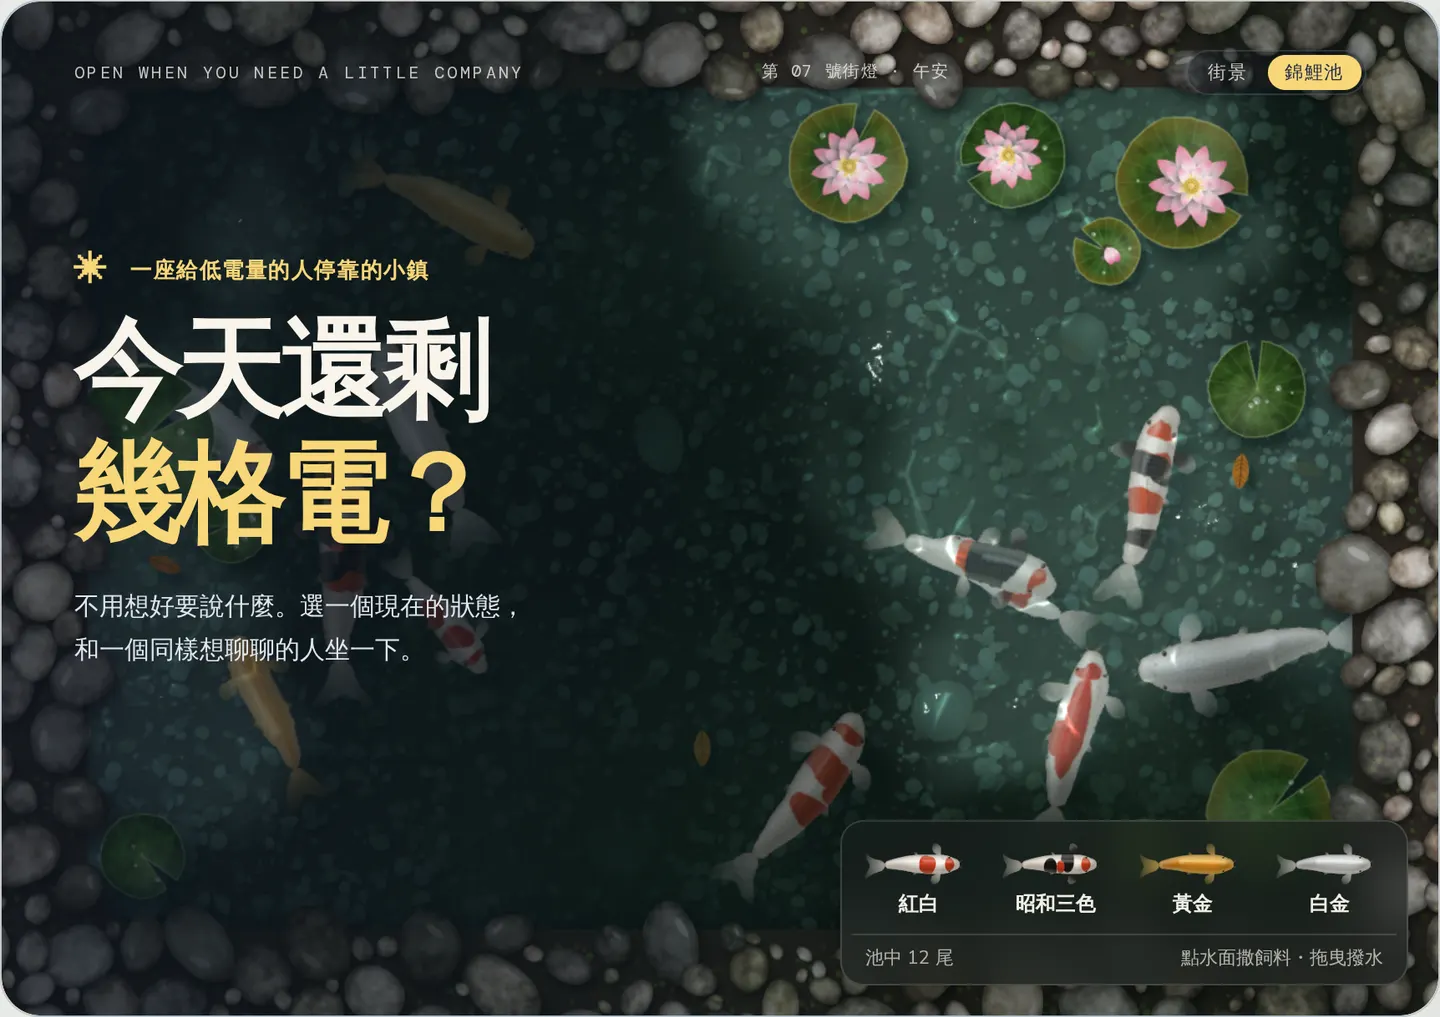
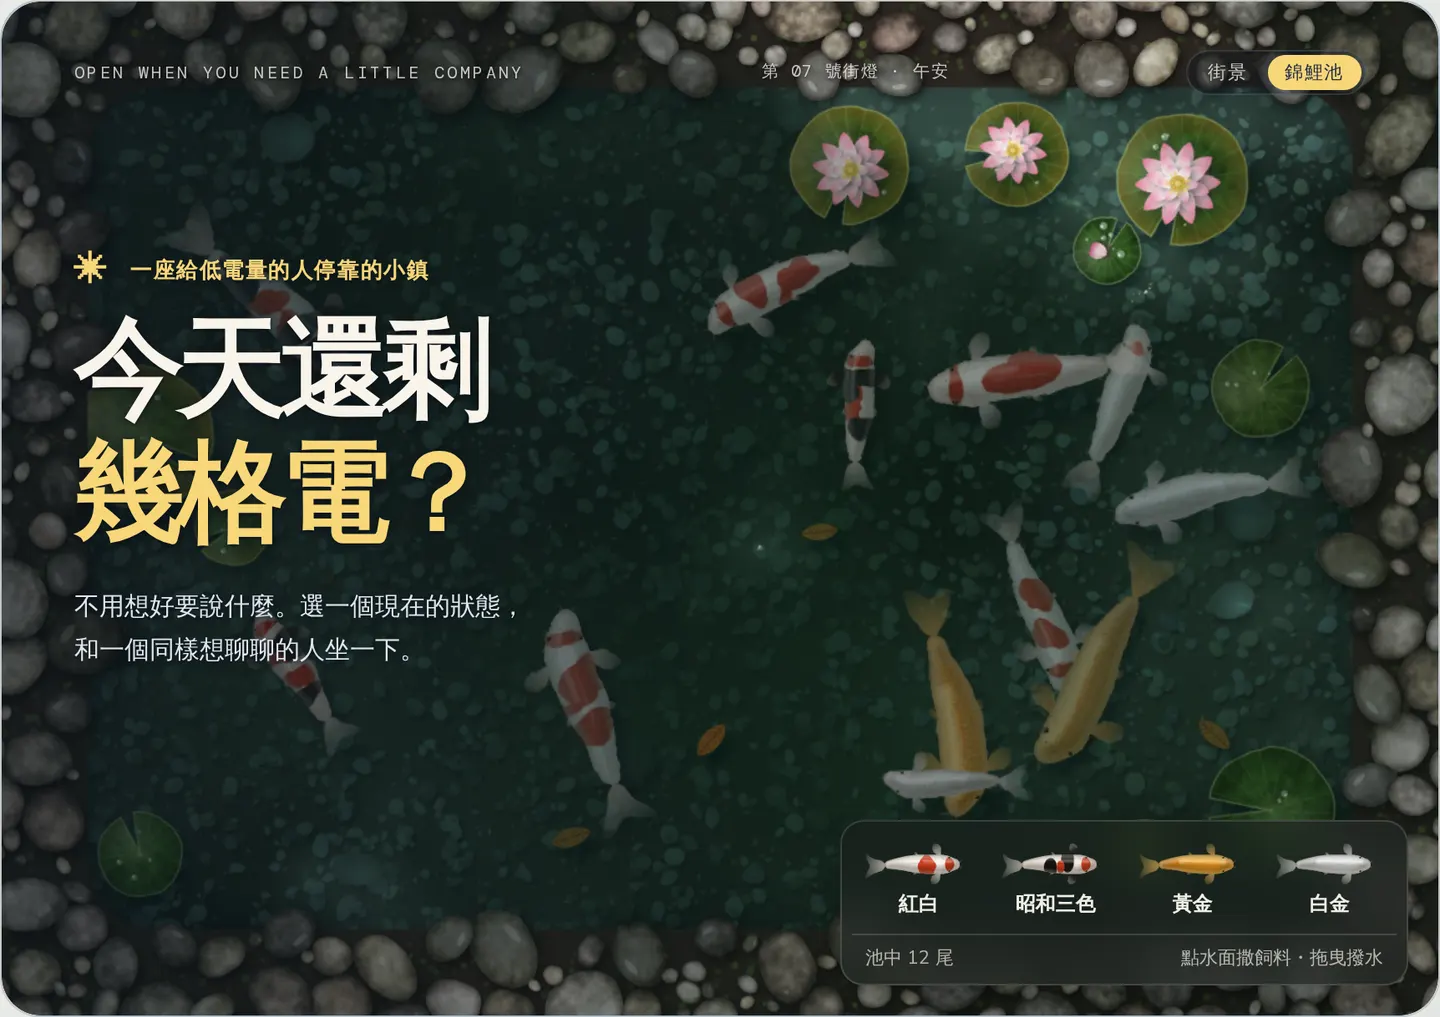
Koi pond: brighter water at every hour, readable headline via text shadow
The owner found the pond too dark (night especially). Measured on the stage,
the mean RGB was about half the prototype's at night and 80% by day.

- Night tint is a light moonlit cast instead of a dark blue multiply; dusk
  and dawn casts are lighter too.
- The left scrim is narrower and lighter; a soft text shadow keeps the hero
  copy and top line readable over the water.
- The engine's tree shade floor goes from the prototype's .58 to .7.
- The /unlock preview image is re-shot with the new look.

Claude-Session: https://claude.ai/code/session_01GTBDjwvqFkiCwE3BEZu2tP

diff --git a/frontend/components/lbt/lbt.css b/frontend/components/lbt/lbt.css
@@ -5305,8 +5305,8 @@ html[data-lbt-time] .lbt .waiting-card .sky-moon {
 
 /* ── Stage scene: koi pond (preview, components/lbt/KoiPond.tsx) ─────────
    The pond fills the stage under the hero copy; the street, sky and sky
-   topics step aside. Light text over a soft dark scrim on the left keeps
-   the headline readable whatever the water does; a tint follows the hour. */
+   topics step aside. A text shadow and a light scrim on the left keep the
+   headline readable whatever the water does; a light tint follows the hour. */
 .lbt .main-stage.is-pond .town-sky,
 .lbt .main-stage.is-pond .townscape,
 .lbt .main-stage.is-pond .sky-topics {
@@ -5355,16 +5355,24 @@ html[data-lbt-time] .lbt .waiting-card .sky-moon {
   inset: 0;
   pointer-events: none;
 }
+/* kept light so the water stays as bright as the owner's prototype; the
+   text shadow below does most of the work for the headline */
 .lbt .koi-scrim {
   right: auto;
-  width: min(560px, 64%);
-  background: linear-gradient(90deg, rgba(12, 18, 30, 0.66), rgba(12, 18, 30, 0.42) 55%, transparent);
+  width: min(520px, 58%);
+  background: linear-gradient(90deg, rgba(12, 18, 30, 0.42), rgba(12, 18, 30, 0.2) 60%, transparent);
 }
 .lbt .koi-tint { mix-blend-mode: multiply; }
+/* a cool moonlit cast at night, warm at dusk, lilac at dawn: colour, not darkness */
 html[data-lbt-time="night"] .lbt .koi-tint,
-html:not([data-lbt-time]) .lbt .koi-tint { background: rgba(28, 40, 86, 0.62); }
-html[data-lbt-time="dusk"] .lbt .koi-tint { background: rgba(255, 168, 120, 0.4); }
-html[data-lbt-time="dawn"] .lbt .koi-tint { background: rgba(196, 188, 236, 0.38); }
+html:not([data-lbt-time]) .lbt .koi-tint { background: rgba(120, 140, 200, 0.4); }
+html[data-lbt-time="dusk"] .lbt .koi-tint { background: rgba(255, 176, 128, 0.28); }
+html[data-lbt-time="dawn"] .lbt .koi-tint { background: rgba(206, 198, 240, 0.28); }
+.lbt .main-stage.is-pond .hero-copy,
+.lbt .main-stage.is-pond .stage-topline {
+  text-shadow: 0 1px 2px rgba(6, 10, 18, 0.7), 0 0 14px rgba(6, 10, 18, 0.55);
+}
+.lbt .main-stage.is-pond .stage-scene { text-shadow: none; }
 .lbt .koi-tray {
   position: absolute;
   right: 18px;

diff --git a/CLAUDE.md b/CLAUDE.md
@@ -28,7 +28,7 @@ Frontend (`frontend/`):
 - Brand: the battery-"B" logo is `components/lbt/BrandMark.tsx` (inline SVG, header wordmark in Quicksand) and `public/brand/` (mark SVG, favicons, app/maskable icons, `og-lbt.png`); `public/logo*.png` and `og-image.png` are the legacy Focus Town art.
 
 - Sky topics: a word crosses the home stage on whatever fits the hour (`components/lbt/SkyTopics.tsx`): a hot-air balloon at dawn, a plane banner by day, a kite at dusk, a rooftop neon sign at night; each pass brings the next word, and tapping one keeps it (`skyTopic` in the session store) so the chat offers it as an opener. Phones get one line under the subtitle (`SkyTopicLine`). Words come from `GET /api/v1/lbt/topics` (edge only, `edge/src/topics.ts`, D1 `lbt_topics`, migration 0004): yesterday's public Google search trends for Taiwan (daily cron, filtered for heavy words: deaths, violence, disasters, also via each trend's news headline), rewritten into a light, open question by Workers AI (`edge/src/topicIssues.ts`, binding `AI`, model `LBT_TOPICS_MODEL`; stored as `prompt`, migration 0005; Traditional-only, ≤28 chars, heavy and partisan answers dropped; plain keywords if the model fails), the owner's picks from /admin (words or whole questions up to 28 chars, e.g. an issue people discuss on Threads; there is no official Threads trends API and no scraping), topped up with the town's own questions (`IDEA_QUESTIONS`, identical in `edge/src/topics.ts` and `lib/lbt/skyTopics.ts`, a different few leading each day). Topics longer than 8 characters wrap onto two lines on the carriers (`.is-long`); a question opens the chat as it is (`chat.skyOpenerQuestion`), a keyword gets the frame (`chat.skyOpener`). Each topic is labelled by its source (`lbt.sky.kind.trend|pick|idea`); never call an idea or a pick a trend. The owner can hide any topic.
-- Koi pond stage scene (paid extra, on sale from 2026-10-15): a device that redeemed an unlock code on `/[locale]/unlock` (noindex, linked from the stage while on sale; `components/lbt/UnlockForm.tsx`, `lib/lbt/unlocks.ts` keeps only the signed token and re-checks it once a day, so a revoked code drops the pond) gets a 街景 / 錦鯉池 switch in the stage's top line (`components/lbt/StageScene.tsx`, last choice remembered); everyone else keeps the street and never loads the pond (there is no free preview link). The pond (`components/lbt/KoiPond.tsx`, engine `lib/lbt/koiPond.mjs` adapted from the owner's 錦鯉池 prototype: WebGL water + 2D koi, tap to feed, drag to stir, a tray to add four varieties) loads lazily, fills the stage under the hero copy (light text over a left scrim, a tint per town time), pauses while the tab is hidden, frees the GPU when switched off, keeps fish still under reduced motion, and is desktop-only like the street. Codes come from /admin (解鎖碼; edge `src/unlocks.ts`, D1 `lbt_unlock_codes`, migration 0006: SHA-256 only, 3 devices per code, revoke for refunds, 10 redeem tries/IP/hour); edge only. Keep it separate from 替小鎮點燈 support (which promises no extra benefits). The offer lives in `lib/lbt/pond.ts` (US$50 as a Buy Me a Coffee extra, code e-mailed by hand within 24 h, 3 devices, unused codes refundable within 7 days; the numbers reach the policies as `{pond*}` placeholders) and is on sale while `POND_PURCHASE_URL` is set (the extra's public page): the stage shows a locked 錦鯉池 chip linking to `/unlock` (`StageSceneOffer`), `/unlock` adds the buy link under the preview and facts (`PondOffer`, preview image `public/lbt/koi-pond-preview.webp`), and the terms/privacy sections marked `"pond": true` appear (`policySections` in `lib/lbt/legal.ts`); bump `LBT_LEGAL.effectiveDate` when launching. No external purchase link inside a Google Play build.
+- Koi pond stage scene (paid extra, on sale from 2026-10-15): a device that redeemed an unlock code on `/[locale]/unlock` (noindex, linked from the stage while on sale; `components/lbt/UnlockForm.tsx`, `lib/lbt/unlocks.ts` keeps only the signed token and re-checks it once a day, so a revoked code drops the pond) gets a 街景 / 錦鯉池 switch in the stage's top line (`components/lbt/StageScene.tsx`, last choice remembered); everyone else keeps the street and never loads the pond (there is no free preview link). The pond (`components/lbt/KoiPond.tsx`, engine `lib/lbt/koiPond.mjs` adapted from the owner's 錦鯉池 prototype: WebGL water + 2D koi, tap to feed, drag to stir, a tray to add four varieties) loads lazily, fills the stage under the hero copy (light text with a soft shadow over a light left scrim, a light colour cast per town time; the tree shade is lifted from the prototype's .58 to .7 so the water stays bright), pauses while the tab is hidden, frees the GPU when switched off, keeps fish still under reduced motion, and is desktop-only like the street. Codes come from /admin (解鎖碼; edge `src/unlocks.ts`, D1 `lbt_unlock_codes`, migration 0006: SHA-256 only, 3 devices per code, revoke for refunds, 10 redeem tries/IP/hour); edge only. Keep it separate from 替小鎮點燈 support (which promises no extra benefits). The offer lives in `lib/lbt/pond.ts` (US$50 as a Buy Me a Coffee extra, code e-mailed by hand within 24 h, 3 devices, unused codes refundable within 7 days; the numbers reach the policies as `{pond*}` placeholders) and is on sale while `POND_PURCHASE_URL` is set (the extra's public page): the stage shows a locked 錦鯉池 chip linking to `/unlock` (`StageSceneOffer`), `/unlock` adds the buy link under the preview and facts (`PondOffer`, preview image `public/lbt/koi-pond-preview.webp`), and the terms/privacy sections marked `"pond": true` appear (`policySections` in `lib/lbt/legal.ts`); bump `LBT_LEGAL.effectiveDate` when launching. No external purchase link inside a Google Play build.
 - Chat and end screens: a thin bar under the chat header shows how much of the 7-minute window is left and turns warm in the last minute; the desktop chat aside offers the current sky topic (用這個開場 / 換一個). The end greeting follows town time (早安 / 今天辛苦了 / 傍晚了 / night's original), with an SVG crescent at night. On phones (≤610px) the chat header is compact (pace line hidden) and the waiting and end cards sit at the top with a smaller lamp.
 - Head counts: the home shows real counts only from `LIVE_COUNT_MIN` (20) people up (`TownCount`); the waiting screen shows no count at all, only that the town is finding someone (`waiting.searching`). Never invent or inflate a count, and never claim the town is busy when it is not.
 - Owner alerts (edge only, `edge/src/ownerAlert.ts`): a visitor unpaired for 20 s triggers one Telegram/Discord alert to the owner (battery, intent and wait only; at most one per 2 min; none while the companion console is on duty), so a companion can meet them at any hour. Secrets `TELEGRAM_BOT_TOKEN` + `TELEGRAM_CHAT_ID` and/or `DISCORD_WEBHOOK_URL`; setup in `edge/README.md`. FastAPI has no equivalent (it is not deployed).
